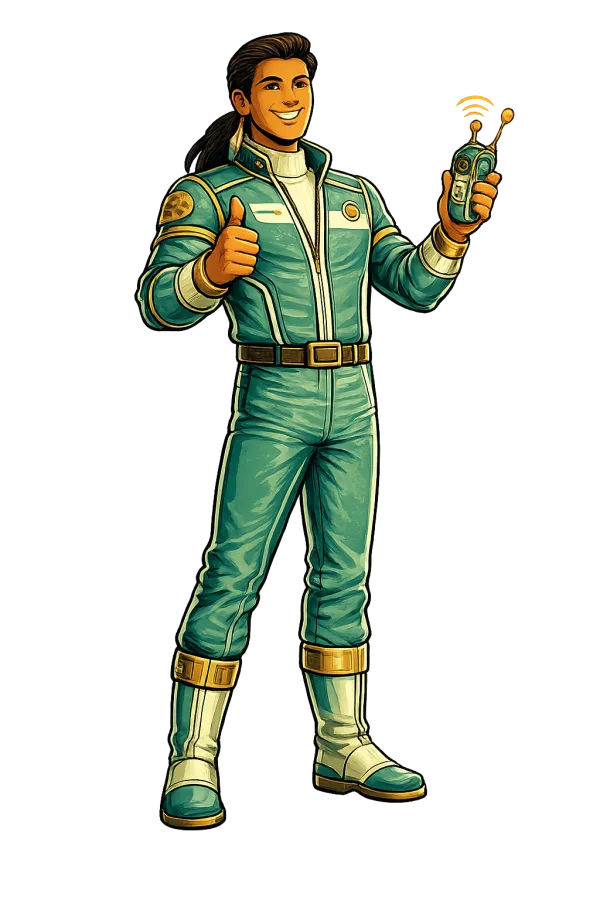
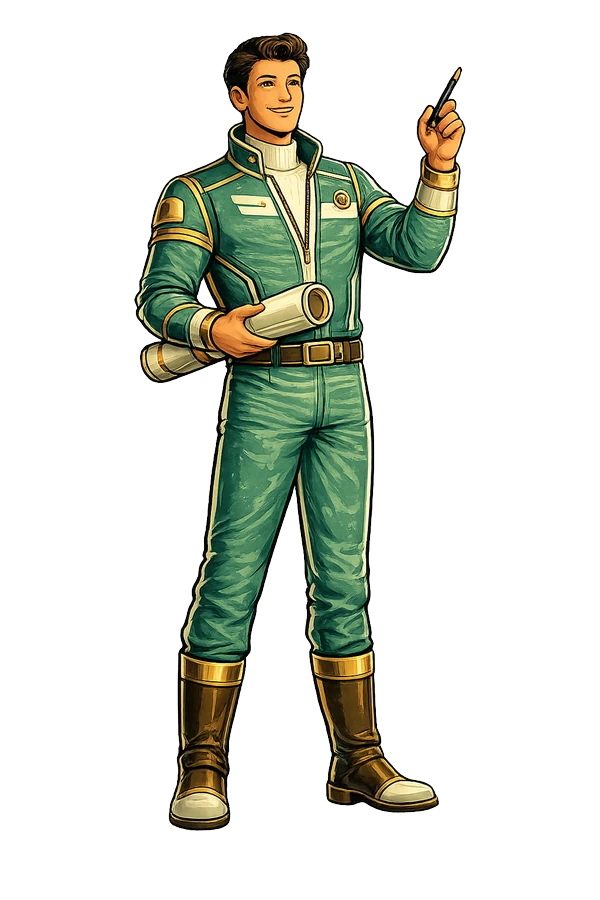
ui(marketing): give Automate a different figure
The Automate lane was a man with a comms rig. Swapped for the East Asian
product designer holding rolled plans and a pen, which also fills the one gap
left in the row — the other four lanes are a white woman, a Black woman, a
service robot and a brown-skinned woman.

The prop is a better fit besides. Automate's claim is "visual workflows, plus
200+ MCP tools any agent can drive", and you draw a workflow before you run it;
a comms rig said nothing about the lane it stood under.

Cut to the frame the other four use — trimmed on an alpha>32 bbox rather than
alpha>0, because these sources carry a faint glow that the looser threshold
keeps and which would have floated the figure off the baseline. Lands on
exactly the placement the previous Automate art used: 332x799 at (134, 32),
feet 69px off the bottom. That convention is now written down next to the lane
table, since a figure standing on a different baseline than its neighbours
reads as a mistake rather than as variety.

Tokens (approx): ~45k

Claude-Session: https://claude.ai/code/session_01LN3kPaGZJodcmwYTpfqw2H

Changed region(s): [[0.21, 0.0311, 0.87, 0.9333]]

diff --git a/app/(pages)/HomeClient.tsx b/app/(pages)/HomeClient.tsx
@@ -100,10 +100,17 @@ const restModules: ManifestModule[] = [
 // replacement rather than a rename hunt through the codebase.
 //
 // Each figure is picked so the prop matches the work — blueprint on Ship,
-// checklist on Serve, tablet on Know, comms rig on Automate — and so the row
-// reads as distinct individuals rather than one archetype recoloured. Serve is
-// a service robot rather than a person, which is also the honest illustration
-// for the lane that includes an AI chatbot answering at 2am.
+// checklist on Serve, tablet on Know, rolled plans and a pen on Automate (you
+// draw a workflow before you run it) — and so the row reads as distinct
+// individuals rather than one archetype recoloured. Serve is a service robot
+// rather than a person, which is also the honest illustration for the lane that
+// includes an AI chatbot answering at 2am.
+//
+// Frame convention, if a lane's art is ever re-cut: 600x900 canvas, figure
+// trimmed on an alpha>32 bbox (the sources carry a faint glow that alpha>0
+// would keep), scaled to ~780-800px tall, centred near x=300 with the feet
+// landing around y=830. Matching it matters — the lanes sit in one row, and a
+// figure standing on a different baseline reads as a mistake.
 const crewLanes: CrewLane[] = [
   { title: 'Sell', art: 'crew-sell', blurb: 'CRM, deals, proposals and contracts with e-signature built in.' },
   { title: 'Ship', art: 'crew-ship', blurb: 'Sites, storefront and an editorial calendar on one visual editor.' },
